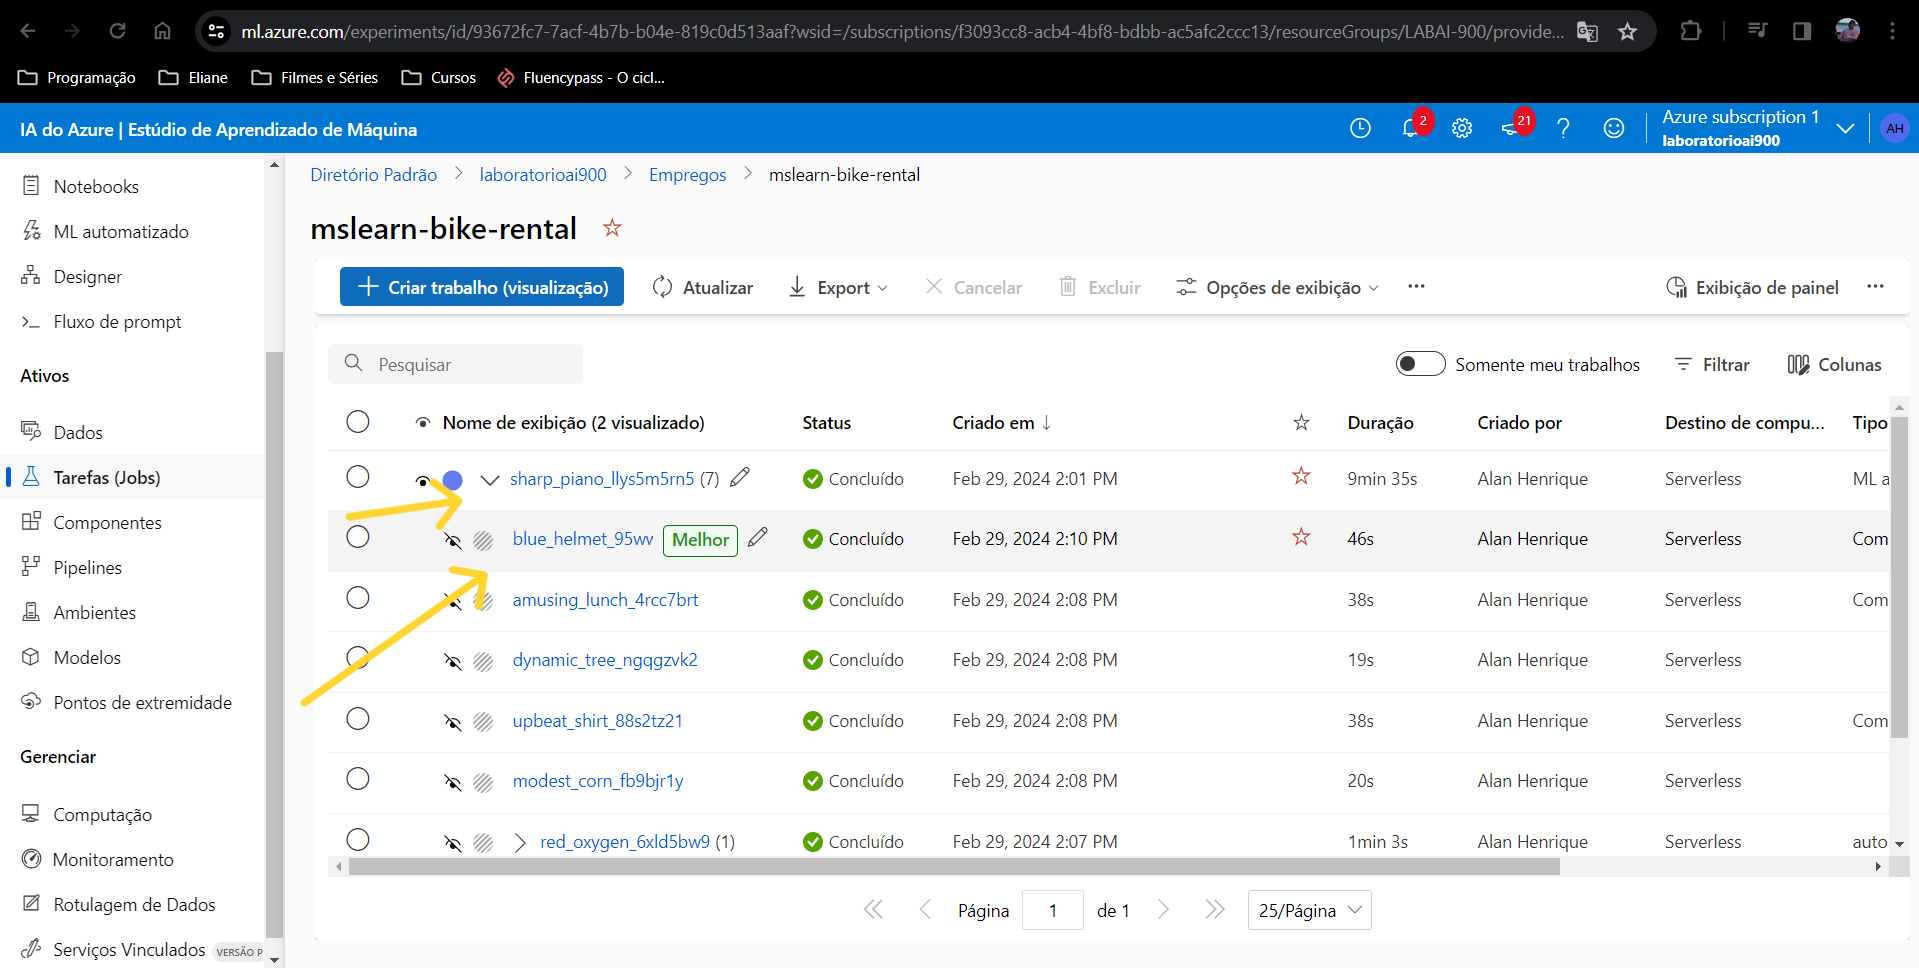
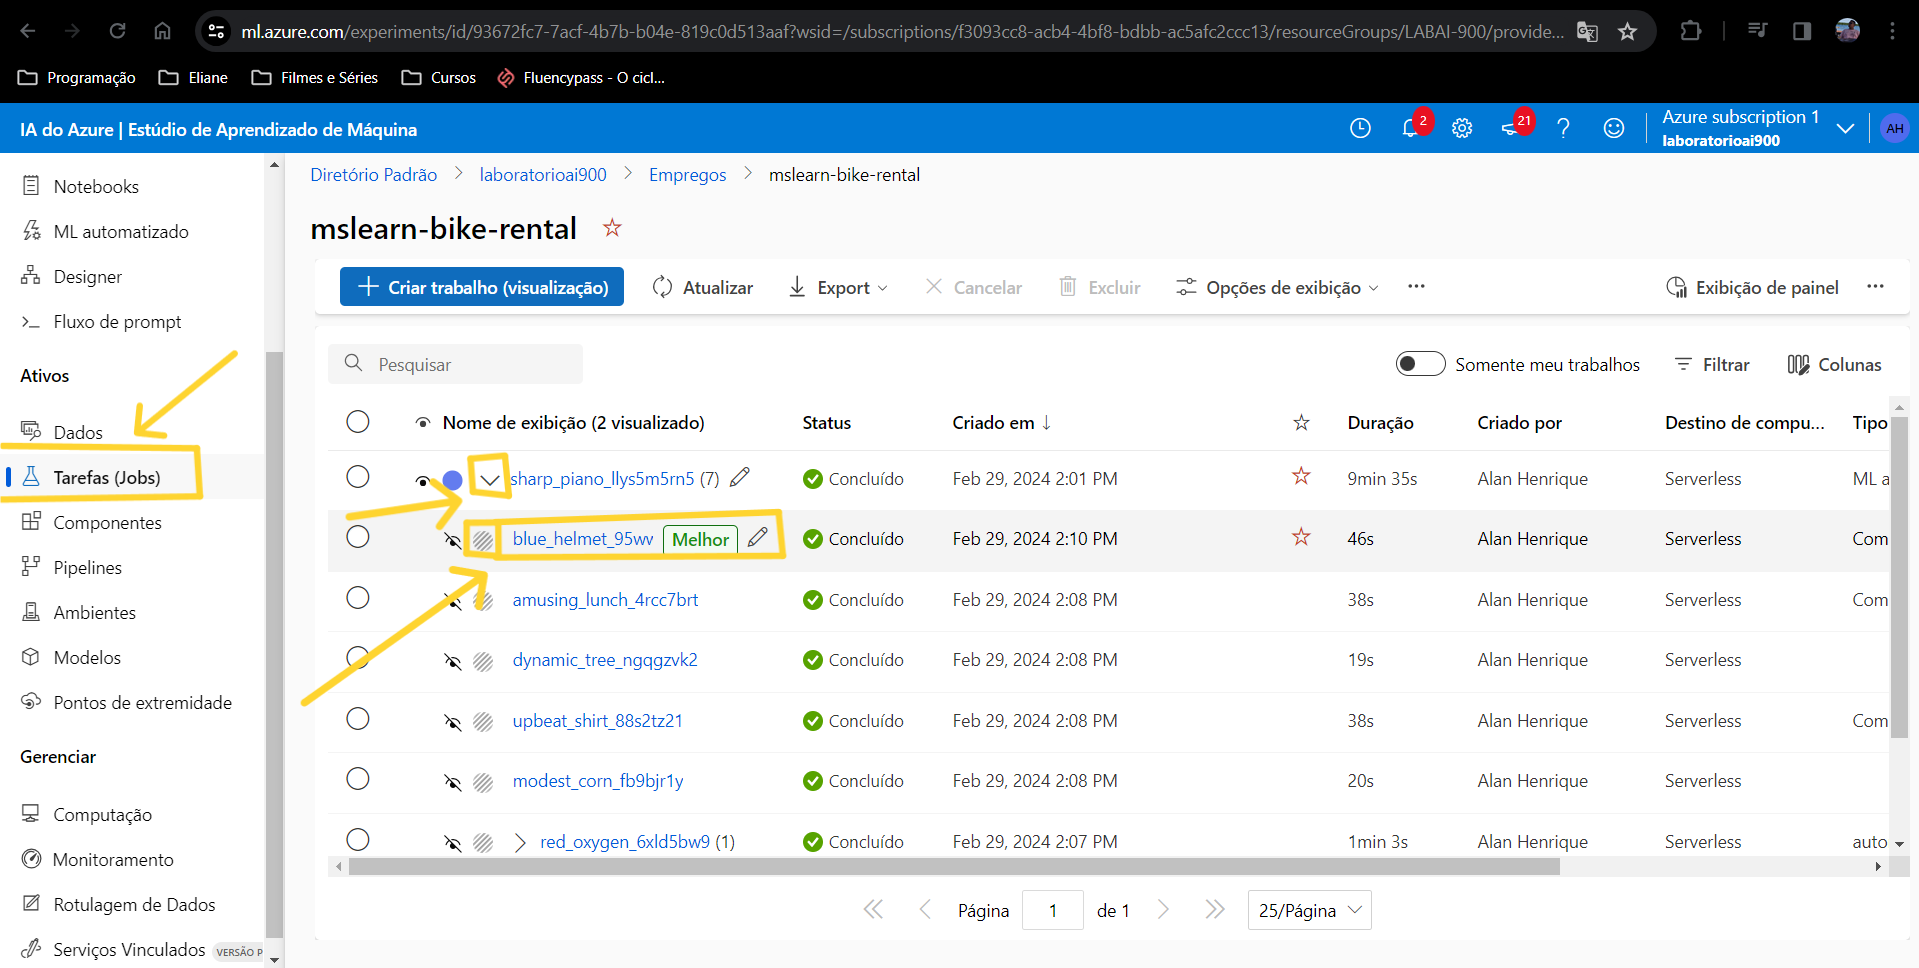
edicao_entega
Edição para entrega do projeto

diff --git a/Desafio_1/README.md b/Desafio_1/README.md
@@ -1,9 +1,15 @@
-<h1><img src="https://raw.githubusercontent.com/alanenrick/Minhas_imagens/main/my_octocat.png" width= "100" alt="My octocat">
- <font color= red> <font size= 40> Desafio de projeto 1</h1>
+<h1><a href="https://web.dio.me/project/trabalhando-com-machine-learning-na-pratica-no-azure-ml/learning/88f82571-5450-40a9-9f4d-253416f2530e?back=/track/microsoft-azure-ai-fundamentals&tab=undefined&moduleId=undefined"><img src="https://hermes.dio.me/lab_projects/badges/87d332d0-5198-4a2f-b159-38c8c2976954.png" align= "left" width= "180" alt="Imagem do bootcamp Trabalhando com Machine Learning na Prática no Azure ML"></a>
+<font color= "Gray" size= "4"> 
+<h1>Desafio de projeto 1</font></font>
+<font color= red>
+<h1><font size= "6">Trabalhando com Machine Learning na Prática no Azure ML</font></h1></h1>
+</font>
 
-#### <font size= 3><font color= yellow> Objetivo</font>
+<font color= "yellow" size= "2">
 
-<font size= 1><font color= gray>
+-   Objetivo
+</font>
+<font size= 2 color= gray>
 
 1. Criar um novo repositório no github com um nome a sua preferência
 2. Criar um modelo de previsão com seus devidos pontos de extremidade configurados
@@ -11,18 +17,238 @@
 4. Salvar nesse repositório o readme.md e o arquivo .json de pontos de extremidade
 5. Compartilhar conosco o link desse repositório através do botão 'entregar projeto'
 
-</font>
 
 # <font color= blue> Passo a passo</font>
-
-### <font color= #00BFFF>1º- Acessar o **[Portal Azure](https://portal.azure.com/)**
-
-### 2º- **[Criar uma conta](https://unicast.com.br/posts/criando-uma-conta-gratuita-no-azure/#:~:text=1.1%20Criando%20sua%20conta%20gratuita,cadastro%20ou%20criar%20uma%20nova.)**
+<font color= gray> *Todos os passos e parâmetros a seguir foram baseados nas aulas do projeto e pelo **[link](https://microsoftlearning.github.io/mslearn-ai-fundamentals/Instructions/Labs/01-machine-learning.html)** indicado.*
 
 
-<img src="https://raw.githubusercontent.com/alanenrick/DIOMSAzureAIFundamentals/main/Desafio_1/Imagens/Desafio_1_passo-01.png">passo 01
+### 1º- Acessar o ***[Portal Azure](https://portal.azure.com/)***
 
 
-<img src="https://raw.githubusercontent.com/alanenrick/DIOMSAzureAIFundamentals/main/Desafio_1/Imagens/Desafio_1_passo-02.png">passo 02
+### 2º- ***[Criar uma conta](https://unicast.com.br/posts/criando-uma-conta-gratuita-no-azure/#:~:text=1.1%20Criando%20sua%20conta%20gratuita,cadastro%20ou%20criar%20uma%20nova.)***, ***[Criar Workspace](https://microsoftlearning.github.io/mslearn-ai-fundamentals/Instructions/Labs/01-machine-learning.html)***, acessar o ***[Estúdio do Machine Learning](https://ml.azure.com/?azure-portal=true)***.
 
+
+### 3º- Acessar o menu, no canto superior direito.
+
+
+<img src="https://raw.githubusercontent.com/alanenrick/DIOMSAzureAIFundamentals/main/Desafio_1/Imagens/Desafio_1_passo-01.png" width= "800">
+
+
+### 4º- Selecionar a opção "ML automatizado". Em seguida "Novo trabalho de ML automatizado".
+
+
+<img src="https://raw.githubusercontent.com/alanenrick/DIOMSAzureAIFundamentals/main/Desafio_1/Imagens/Desafio_1_passo-02.png" width= "800">
+
+
+### 5º- Preencher parametros como exemplo abaixo e depois clicar em "Avançar".
+
+
+-   **Nome do trabalho:** mslearn-bike-automl
+-   **Nome do experimento:** Seleciona "criar novo"
+-   **Novo nome do experimento:** mslearn-bike-rental
+-   **Descrição:** Aprendizado de maquina automatizado para previsão de alugue de bicicletas.
+
+
+<img src="https://raw.githubusercontent.com/alanenrick/DIOMSAzureAIFundamentals/main/Desafio_1/Imagens/Desafio_1_passo-03.png" width= "800">
+
+
+### 6º- Selecionar tipo de tarefa como "Regressão", clicar em "Criar" dados, preencher como abaixo e depois clica em "Avançar".
+
+
+<img src="https://raw.githubusercontent.com/alanenrick/DIOMSAzureAIFundamentals/main/Desafio_1/Imagens/Desafio_1_passo-04.png" width= "800">
+
+
+-   **Nome:** aluguel_de_bicicletas
+-   **Descrissão:** Dados históricos de aluguel de bicicletas.
+-   **Tipo:** Tabular
+
+
+<img src="https://raw.githubusercontent.com/alanenrick/DIOMSAzureAIFundamentals/main/Desafio_1/Imagens/Desafio_1_passo-05.png" width= "800">
+
+
+### 7º- Seleciona a opção "De arquivos da web" e clica em "Avançar".
+
+
+-   **URL da Web:** [https://aka.ms/bike-rentals](https://aka.ms/bike-rentals)
+
+
+<img src="https://raw.githubusercontent.com/alanenrick/DIOMSAzureAIFundamentals/main/Desafio_1/Imagens/Desafio_1_passo-06.0.png" width= "800">
+
+
+### 8º- Preenche campos conforme abaixo e clica em "Avançar".
+
+
+-   **Formato de arquivo:** Delimitado
+-   **Delimitador:** Vírgula
+-   **Codificação:** UTF-8
+-   **Cabçalho de coluna:** Somente o primeiro arquivo tem cabeçalhos
+-   **Ignorar linhas:** Nenhuma
+
+
+<img src="https://raw.githubusercontent.com/alanenrick/DIOMSAzureAIFundamentals/main/Desafio_1/Imagens/Desafio_1_passo-06.1.png" width= "800">
+
+
+### 9º- Em preencher conforme a seguir e clicar em "Avançar".
+
+
+-   Seleciona todos exceto "path".
+
+
+<img src="https://raw.githubusercontent.com/alanenrick/DIOMSAzureAIFundamentals/main/Desafio_1/Imagens/Desafio_1_passo-06.2.png" width= "800">
+
+
+### 10º- Revisar se está tudo correto e clica em "criar".
+
+
+<img src="https://raw.githubusercontent.com/alanenrick/DIOMSAzureAIFundamentals/main/Desafio_1/Imagens/Desafio_1_passo-07.png" width= "800">
+
+
+### 11º- Seleciona "aluguel_de_bicicletas" e clica em " Avançar".
+
+
+<img src="https://raw.githubusercontent.com/alanenrick/DIOMSAzureAIFundamentals/main/Desafio_1/Imagens/Desafio_1_passo-08.png" width= "800">
+
+
+### 12º- Preencher como abaixo e clicar em "Exibir definições de configuração adicionais".
+
+
+-   **Coluna de destino:** Rentals(integer)
+
+
+<img src="https://raw.githubusercontent.com/alanenrick/DIOMSAzureAIFundamentals/main/Desafio_1/Imagens/Desafio_1_passo-10.png" width= "800">
+
+
+### 13º- Preencher e clicar em "Salvar"
+
+
+-   **Métrica primária:** NormalizedRootMeanSquaredError
+-   **Desmarca as três opções.**
+-   **Modeslos permitidos:** RandomForest, LightGBM
+
+
+<img src="https://raw.githubusercontent.com/alanenrick/DIOMSAzureAIFundamentals/main/Desafio_1/Imagens/Desafio_1_passo-09.png" width= "800">
+
+
+### 14º- Definir Limites e "Avançar".
+
+-   **Limites:**
+    -   **Máximo de avaliações:** 3
+    -   **Máximo de avaliações simultâneas:** 3
+    -   **Máximo de nós:** 3
+    -   **Limite de pontução de métrica:** 0.085
+    -   **Tempo limite do experimento(minutos):** 15
+    -   **Tempo limite de iteração(minutos):**  15
+    -   **Habilitar encerramento antecipado:** Selecionar
+
+
+-   **Validar e testar:**
+    -   **Tipo de validação:** Divisão de validação de treinamento
+    -   **Validação de percentual de dados:** 10
+    -   **Dados de teste:** Nenhum
+
+
+<img src="https://raw.githubusercontent.com/alanenrick/DIOMSAzureAIFundamentals/main/Desafio_1/Imagens/Desafio_1_passo-11.png" width= "800">
+
+
+### 15º- Preencher conforme abaixo e "Avançar".
+
+
+-   **Selecione o tipo de computação:** Sem servidor
+-   **Tipo de máquina virtual:** CPU
+-   **Tipo de máquina virtual:** Dedicado
+-   **Tamanho da máquina virtual:** Standard_DS3_V2
+-   **Numero de instâncias:** 1
+
+
+<img src="https://raw.githubusercontent.com/alanenrick/DIOMSAzureAIFundamentals/main/Desafio_1/Imagens/Desafio_1_passo-12.png" width= "800">
+
+
+### 16º- Revisar dados e "Enviar trabalho de treinamento"
+
+
+<img src="https://raw.githubusercontent.com/alanenrick/DIOMSAzureAIFundamentals/main/Desafio_1/Imagens/Desafio_1_passo-13.png" width= "800">
+
+
+### 17º- Aguardar status como Concluido.
+
+
+<img src="https://raw.githubusercontent.com/alanenrick/DIOMSAzureAIFundamentals/main/Desafio_1/Imagens/Desafio_1_passo-14.png" width= "800">
+
+
+<img src="https://raw.githubusercontent.com/alanenrick/DIOMSAzureAIFundamentals/main/Desafio_1/Imagens/Desafio_1_passo-15.png" width= "800">
+
+
+<img src="https://raw.githubusercontent.com/alanenrick/DIOMSAzureAIFundamentals/main/Desafio_1/Imagens/Desafio_1_passo-16.png" width= "800">
+
+
+### 18º- Selecionar "Tarefas(Jobs)", abrir submenu da tarefa e selecionar a tarefa com a tag "<font color= green>Melhor</font>".
+
+
+<img src="https://raw.githubusercontent.com/alanenrick/DIOMSAzureAIFundamentals/main/Desafio_1/Imagens/Desafio_1_passo-17.png" width= "800">
+
+
+### 19º- Selecionar "Modelo", Selecionar "Implantar" e definir o nome como "preveralugueis". 
+
+
+<img src="https://raw.githubusercontent.com/alanenrick/DIOMSAzureAIFundamentals/main/Desafio_1/Imagens/Desafio_1_passo-18.png" width= "800">
+
+
+<img src="https://raw.githubusercontent.com/alanenrick/DIOMSAzureAIFundamentals/main/Desafio_1/Imagens/Desafio_1_passo-19.png" width= "800">
+
+
+### 20º- Selecionar "Ponto de extremidade", Selecionar "preveralugueis" e clicar em "testar"
+
+
+<img src="https://raw.githubusercontent.com/alanenrick/DIOMSAzureAIFundamentals/main/Desafio_1/Imagens/Desafio_1_passo-20.png" width= "800">
+
+
+### 21º- Parâmetros utilizados no teste e o resultado obtido:
+
+
+-   **Parâmetros:**
+```
+{
+  "Inputs": {
+    "data": [
+      {
+        "day": 15,
+        "mnth": 6,
+        "year": 2024,
+        "season": 2,
+        "holiday": 0,
+        "weekday": 1,
+        "workingday": 1,
+        "weathersit": 2,
+        "temp": 0.3,
+        "atemp": 0.3,
+        "hum": 0.3,
+        "windspeed": 0.3
+      }
+    ]
+  },
+  "GlobalParameters": 1.0
+}
+```
+
+-    **Resultado:**
+```
+{
+  "Results": [
+    387.9179371881571
+  ]
+}
+```
+
+<img src="https://raw.githubusercontent.com/alanenrick/DIOMSAzureAIFundamentals/main/Desafio_1/Imagens/Desafio_1_passo-21.png" width= "800">
+
+
+# <font color= blue>Links utéis e Fontes de pesquisa</font>
+
+
+-   [Portal Azure](https://portal.azure.com)
+-   [Estúdio do Machine Learning](https://ml.azure.com/?azure-portal=true)
+-   [Fonte de instruções do projeto](https://microsoftlearning.github.io/mslearn-ai-fundamentals/Instructions/Labs/01-machine-learning.html)<sup><font size= "1,5">(Fornecido pela aula do Bootcamp)</font></sup>. Acessado em 04/03/2024
+-   [Todos os Desafios de Projeto.](https://web.dio.me/topics/vamos-resolver-os-desafios-juntos?back=%2Ftrack%2Fmicrosoft-azure-ai-fundamentals&page=1&order=oldest)<sup><font size= "1,5">(Artigo Usado para entender como entregar o projeto)</font></sup>. Acessado em 04/03/2024.
+-   [Arquivo .csv com os dados](https://aka.ms/bike-rentals)
+-   [Sintaxe básica de gravação e formatação no GitHub](https://docs.github.com/pt/get-started/writing-on-github/getting-started-with-writing-and-formatting-on-github/basic-writing-and-formatting-syntax)<sup><font size= "1,5">(Usado para tirar na edição deste README)</font></sup>. Acessado em 04/03/2024.
 
